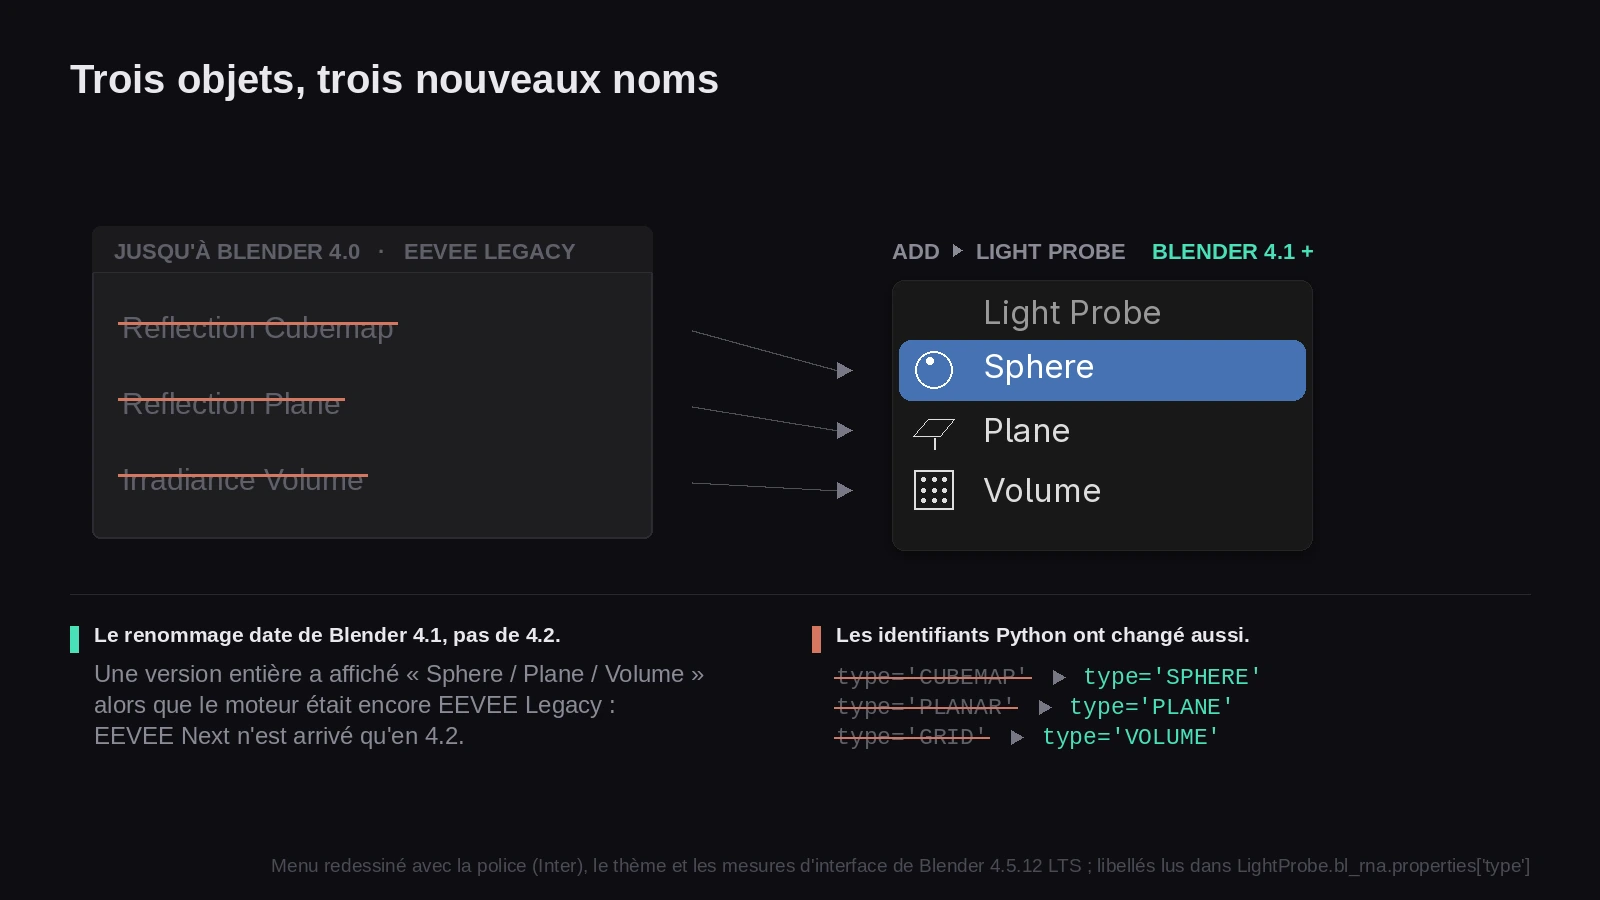
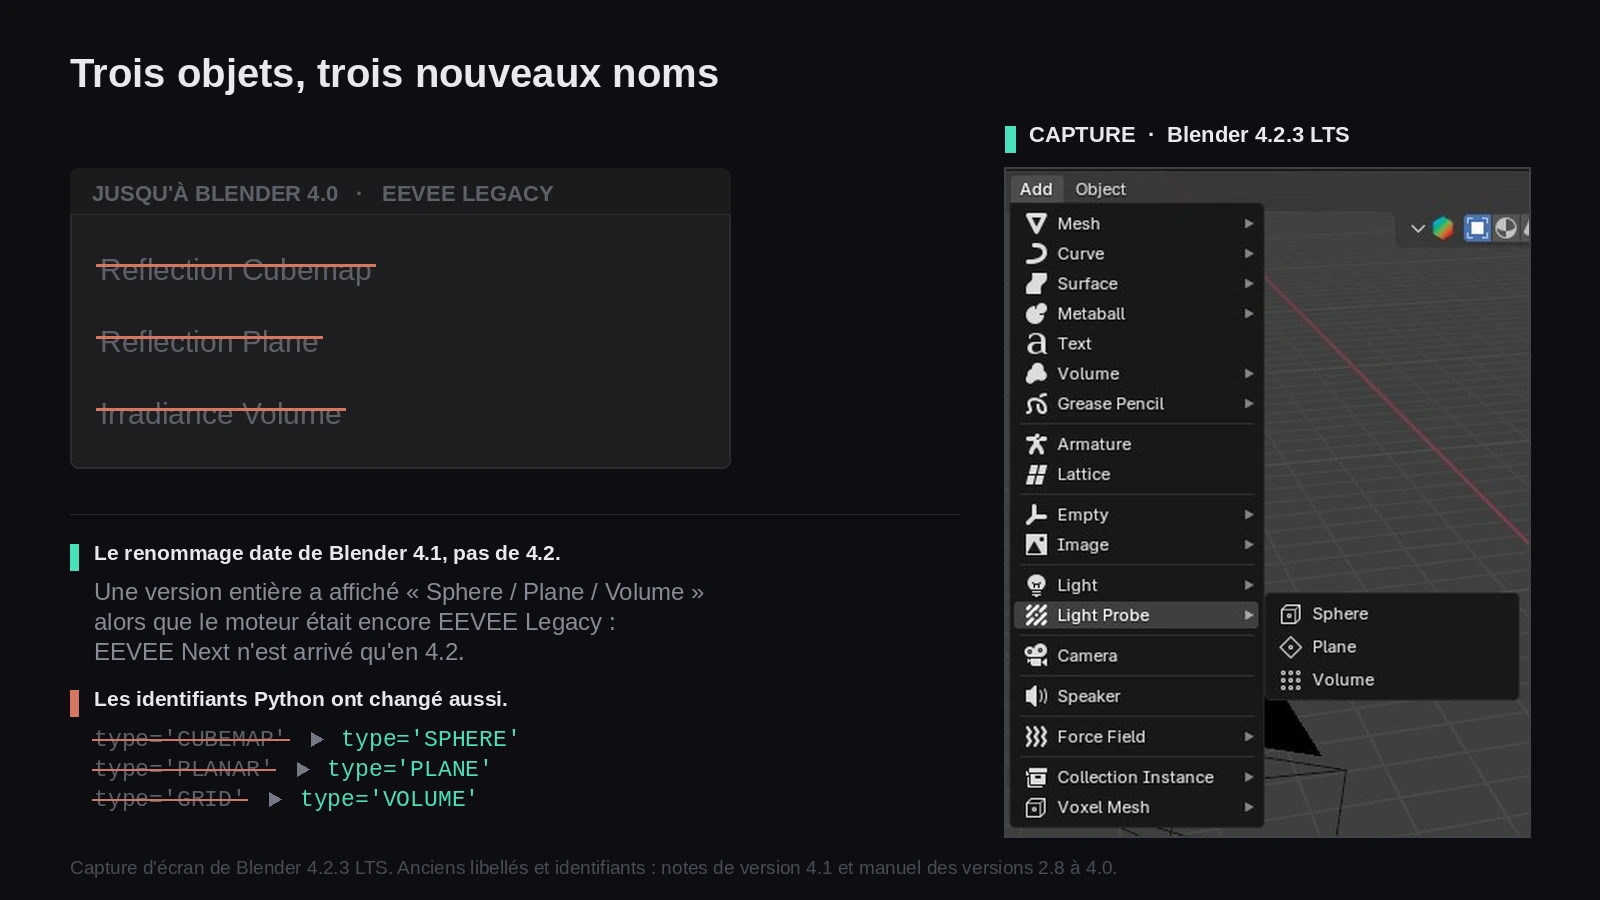
Article : IMAGE 2 montee avec une VRAIE capture de Blender 4.2.3 LTS
La capture a ete prise a la main sur un poste equipe - cette machine
n'a pas d'interface graphique, aucun ecran a photographier. Le menu
redessine cede donc la place au vrai.

La mise en page du mode --capture est refaite : un menu Add
photographie est un objet HAUT, 350 x 446 px, la ou le menu
reconstruit etait large et court. Reutiliser la meme grille aurait
oblige a reduire la capture a moins de la moitie, donc a la rendre
illisible. Deux colonnes etiquetees plutot que des fleches : les trois
entrees du sous-menu sont quelque part dans une image dont on ne
connait pas la structure, et trois fleches tombant "a peu pres" en
face seraient pires que rien.

Agrandissement a 1,5. A l'echelle 1 le menu fait 350 px de large :
dans une image de 1600 affichee a 1200 sur un blog, le texte tomberait
a sept pixels de haut. Au-dela de 1,5 la recompression JPEG de la
capture commence a se voir.

Le recadrage est mesure, pas devine : le fond de la vue 3D et le fond
d'un menu sont deux gris sombres voisins, et un seuil qui marcherait
sur une capture raterait la suivante. Quatre nombres mesures une fois
valent mieux qu'une detection qui echoue en silence. --recadre permet
de les redonner pour une autre capture.

La version affichee sur l'image est celle lue dans la barre de titre
de la capture, 4.2.3 LTS - celle de l'article.

Claude-Session: https://claude.ai/code/session_015un2t2xRvThoKm9jAu6CXK

diff --git a/article/menu_light_probe.py b/article/menu_light_probe.py
@@ -116,6 +116,28 @@ VERSION_EEVEE_NEXT = "4.2"
 CAPTURE = (sys.argv[sys.argv.index("--capture") + 1]
            if "--capture" in sys.argv else None)
 
+#  LE RECADRAGE DE LA CAPTURE.
+#
+#  Mesuré sur la capture fournie — un plein écran de 1548 × 909 pris sous
+#  Blender 4.2.3 LTS. Une autre capture demandera d'autres bornes : d'où
+#  `--recadre x0,y0,x1,y1` pour les donner à la main.
+#
+#  On ne devine pas ces valeurs automatiquement : le fond de la vue 3D et le
+#  fond d'un menu sont deux gris sombres voisins, et un seuil qui marcherait
+#  sur une capture raterait la suivante. Quatre nombres mesurés une fois
+#  valent mieux qu'une détection qui échoue en silence.
+RECADRE = (246, 46, 596, 492)
+if "--recadre" in sys.argv:
+    RECADRE = tuple(int(v) for v in
+                    sys.argv[sys.argv.index("--recadre") + 1].split(","))
+
+#  Agrandissement de la capture. À l'échelle 1 le menu de Blender fait 350 px
+#  de large : dans une image de 1600 px affichée à 1200 sur un blog, le texte
+#  tomberait à sept pixels de haut, illisible. À 1,5 il reste net — au-delà,
+#  la recompression JPEG de la capture commence à se voir.
+CAPTURE_ECHELLE = 1.5
+CAPTURE_VERSION = "Blender 4.2.3 LTS"
+
 
 def police(chemin, taille):
     try:
@@ -295,7 +317,114 @@ def panneau(d, x, y, l, h, tete, actif):
     return tete
 
 
+def composer_avec_capture(entrees, version):
+    """
+    La mise en page quand on dispose d'une VRAIE capture.
+
+    Elle ne peut pas être celle du menu redessiné : un menu Add photographié
+    est un objet HAUT — 350 × 446 px — là où le menu reconstruit était large
+    et court. Réutiliser la même grille aurait obligé à réduire la capture à
+    moins de la moitié, donc à la rendre illisible.
+
+    Autre conséquence : pas de flèches. Les trois entrées du sous-menu sont
+    quelque part dans une image dont on ne connaît pas la structure ; trois
+    flèches qui tomberaient « à peu près » en face seraient pires que deux
+    colonnes clairement étiquetées.
+    """
+    im = Image.new("RGB", (L, H), FOND)
+    d = ImageDraw.Draw(im, "RGBA")
+    f_titre = police(POLICE_G, 40)
+    f_menu = police(POLICE_R, 30)
+    f_tete = police(POLICE_G, 22)
+    f_note = police(POLICE_R, 24)
+    f_puce = police(POLICE_G, 21)
+
+    d.text((70, 50), "Trois objets, trois nouveaux noms", font=f_titre,
+           fill=BLANC)
+
+    # -- la capture, à droite ---------------------------------------------
+    cap = Image.open(CAPTURE).convert("RGB").crop(RECADRE)
+    cap = cap.resize((int(cap.width * CAPTURE_ECHELLE),
+                      int(cap.height * CAPTURE_ECHELLE)), Image.LANCZOS)
+    cx, cy = L - 70 - cap.width, 168
+    im.paste(cap, (cx, cy))
+    #  Un filet, pour que la capture se lise comme une capture et non comme
+    #  un morceau de la mise en page.
+    d.rectangle([cx - 1, cy - 1, cx + cap.width, cy + cap.height],
+                outline=(64, 64, 72), width=2)
+
+    d.rectangle([cx, 126, cx + 10, 152], fill=TEAL)
+    d.text((cx + 24, 122), "CAPTURE  ·  %s" % CAPTURE_VERSION, font=f_tete,
+           fill=BLANC)
+
+    # -- les anciens noms, à gauche ---------------------------------------
+    AX, AL = 70, 660
+    PY, PH = 168, 300
+    panneau(d, AX, PY, AL, PH, "", actif=False)
+    d.text((AX + 22, PY + 13), "JUSQU'À BLENDER 4.0   ·   EEVEE LEGACY",
+           font=f_tete, fill=GRIS_SOMBRE)
+    for i, (cle, _nom) in enumerate(entrees):
+        yl = PY + 84 + i * 72
+        ancien = ANCIENS.get(cle, "?")
+        d.text((AX + 30, yl), ancien, font=f_menu, fill=GRIS_SOMBRE)
+        la = d.textlength(ancien, font=f_menu)
+        d.line([AX + 26, yl + 13, AX + 34 + la, yl + 13], fill=ROUGE,
+               width=3)
+
+    # -- les deux notes, sous l'encart ------------------------------------
+    yn = PY + PH + 46
+    d.line([70, yn, cx - 46, yn], fill=(40, 40, 48), width=1)
+
+    d.rectangle([70, yn + 30, 78, yn + 56], fill=TEAL)
+    d.text((94, yn + 26),
+           "Le renommage date de Blender %s, pas de %s."
+           % (VERSION_RENOMMAGE, VERSION_EEVEE_NEXT), font=f_puce,
+           fill=BLANC)
+    for i, ligne in enumerate((
+            "Une version entière a affiché « Sphere / Plane / Volume »",
+            "alors que le moteur était encore EEVEE Legacy :",
+            "EEVEE Next n'est arrivé qu'en %s." % VERSION_EEVEE_NEXT)):
+        d.text((94, yn + 64 + i * 30), ligne, font=f_note, fill=GRIS)
+
+    d.rectangle([70, yn + 176, 78, yn + 202], fill=ROUGE)
+    d.text((94, yn + 172), "Les identifiants Python ont changé aussi.",
+           font=f_puce, fill=BLANC)
+    f_mono = police(POLICE_M, 23)
+    for i, (cle, _nom) in enumerate(entrees):
+        ya = yn + 212 + i * 30
+        av = "type='%s'" % ANCIENS_API.get(cle, "?")
+        ap = "type='%s'" % cle
+        d.text((94, ya), av, font=f_mono, fill=GRIS_SOMBRE)
+        lv = d.textlength(av, font=f_mono)
+        d.line([92, ya + 13, 96 + lv, ya + 13], fill=ROUGE, width=2)
+        fx = 114 + lv
+        d.polygon([(fx + 16, ya + 13), (fx + 4, ya + 6), (fx + 4, ya + 20)],
+                  fill=(120, 120, 134))
+        d.text((fx + 34, ya), ap, font=f_mono, fill=TEAL)
+
+    f_prov = police(POLICE_R, 19)
+    prov = ("Capture d'écran de %s. Anciens libellés et identifiants : "
+            "notes de version 4.1 et manuel des versions 2.8 à 4.0."
+            % CAPTURE_VERSION)
+    d.text((70, H - 44), prov, font=f_prov, fill=(74, 74, 84))
+
+    im.save(SORTIE, "WEBP", quality=QUALITE, method=6)
+    print()
+    print("  %d x %d   capture %d x %d posee a l'echelle %.1f"
+          % (im.size[0], im.size[1], cap.width, cap.height, CAPTURE_ECHELLE))
+    for cle, nom in entrees:
+        print("  %-22s  ->  %s" % (ANCIENS.get(cle, "?"), nom))
+    print("  %s  (%.0f Ko)"
+          % (os.path.basename(SORTIE), os.path.getsize(SORTIE) / 1024))
+
+
 def principal():
+    entrees, version = libelles_actuels()
+    if CAPTURE is not None:
+        if not os.path.exists(CAPTURE):
+            raise SystemExit("capture introuvable : %s" % CAPTURE)
+        return composer_avec_capture(entrees, version)
+
     entrees, version = libelles_actuels()
     im = Image.new("RGB", (L, H), FOND)
     d = ImageDraw.Draw(im, "RGBA")
